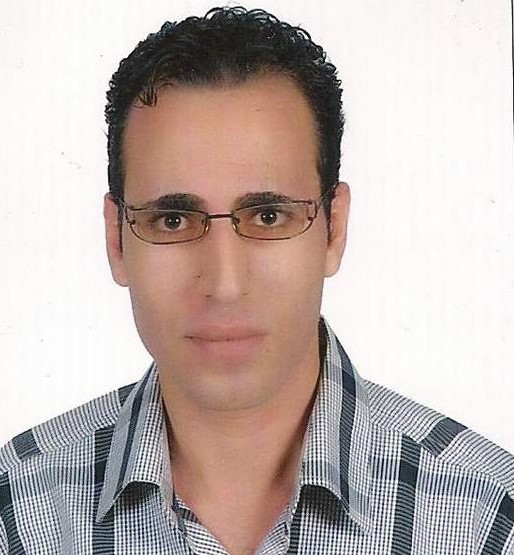
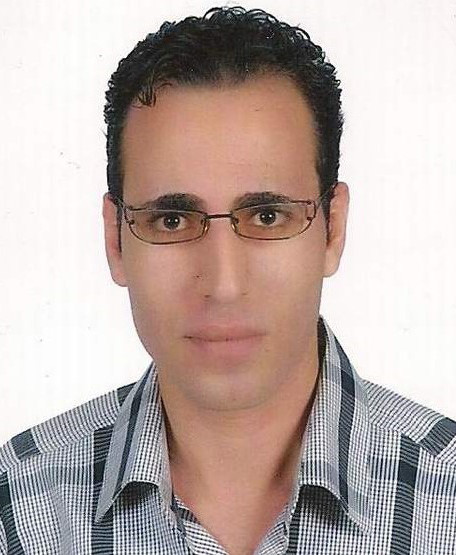
updated the body content,index.html,index.css,images/main.jpg

diff --git a/index.html b/index.html
@@ -3,7 +3,7 @@
   <head>
   <meta charset="UTF-8">
   <meta name="viewport" content="width=device-width, initial-scale=1">
-  <meta name="personal profile" content="information about younan yaquob life">
+  <meta name="personal profile" content="information about younan kamel yaquob life">
   <meta name="keywords" content="younan kamel yaquob">
   <meta name="author" content="younan kamel yaquob">
   <meta name="viewport" content="width=device-width, initial-scale=1.0">
@@ -20,67 +20,67 @@
      <header class="top">
       <div class="row">
         <ul class="main-nav">
-          <li><a href="#Who_I_am?">Who I am</a></li>   
-          <li><a href="#During_my_school">During my school</a></li>
-          <li><a href="#What_I_do">What I do</a></li>
-          <li><a href="#avatar_">Avatar</a></li>
           <li><a href="#contact_">Contact</a></li>
+          <li><a href="#pictures_">Pictures</a></li>
+          <li><a href="#work">Work</a></li>
+          <li><a href="#education">Education</a></li>
+          <li><a href="#about_me">About me</a></li>   
+
         </ul>
       </div>
      </header>
     <div class="center">
-      <h1> Hi, I'M Younan Yaquob</h1> 
+        <h1> Hi, I'm Younan Yaquob</h1> 
         <p><img class="main-picture" src="images/main.jpg" alt="my main picture" title="Younan Yaquob"
          width="450" height="500" /></p>
     </div>
    <div id="container">  
-     <h2 id="Who_I_am?">Who I am</h2>
-     <h3>I am called younan ( Jonah ), because I was born in Jonah`s celebration according to Egyptian Coptic calendar .
-      My family contained five members. I was the second member among my brothers. I grew up at a house which is full of love and sanctification. After some years I have met a nice, lovely girl. When I saw her, I decided to marry her. I got married at age of thirty. After that, I have got my two daughters who bring joy and happiness to our home. 
+     <h2 id="about_me">About me</h2>
+     <h3>I am called Younan ( Jonah ) because I was born in Jonah`s celebration according to the Egyptian Coptic calendar. My family contained five members. I was the second member of my brothers. I grew up in a house which is full of love and sanctification. After some years I have met a nice, lovely girl. When I saw her, I decided to marry her. I got married at age of thirty. After that, I have got my two daughters who bring joy and happiness to our home. 
      </h3><br />
-     <h2 id="During_my_school">During my school</h2>
-      <p>At school I had met new friends who were clever too. We were in competitions in studies and sports. I have studied hard during high school and I succeeded to attend a good university. I had studied languages both English and German. I studied hard and got high marks at my studies. </p>
+     <h2 id="education">Education</h2>
+      <p>At school, I had met new friends who were clever too. We were in competitions in studies and sports. I have studied hard during high school, and I succeeded to attend a good university. I had studied languages both English and German. I studied hard and got high marks in my studies.</p>
        <br />
-     <h2 id="What_I_do">What I do</h2>
+     <h2 id="work">Work</h2>
       <p>I tried to work in my college as a teacher, but there was no chance to work there for some reason. I have moved to another city to look for work, and I worked at a famous hotel as a receptionist. My work remained for some months then I worked as a tourist guide. After that, I opened my very first own shop which was offering jewelry to tourists. Then I got my second shop in which I sold papyrus.<span class="sentence">I had to read much about old ancient Egyptian history to explain any <a href="https://www.ancient.eu/Egyptian_Papyrus/" target="_blank"> Papyrus </a> picture. It is interesting to know ancient Egyptian history."</span> Life is interesting when you have a good family, and you achieve yourself.</p>
         <!-- End of the body content -->
-        <!-- start Avatar images -->
-        <h2 id="avatar_">Avatar</h2>
+        <!-- start images tour -->
+        <h2 id="pictures_">Pictures</h2>
         <p><a href="#top">Top</a></p>
      <div class="images">
        <div>
         <figure>
         <img src="images/1.gif" alt="jewelry shop" title="tourists"
          width="300" height="400" />
-         <figcaption>At My Jewelry Shop</figcaption>
+         <figcaption>At my jewelry shop</figcaption>
         </figure>
        </div>
        <div>
         <figure>
          <img src="images/2.jpg" alt="family" title="my sister and me"
          width="300" height="400" />
-         <figcaption>With My Sister And Her Family</figcaption>
+         <figcaption>With my sister and her family</figcaption>
         </figure>
        </div>
        <div>
         <figure>
           <img src="images/3.jpg" alt="jewelry shop" title="my brother and me"
            width="300" height="400" />
-          <figcaption>Selling Jewelry to Tourists </figcaption>
+          <figcaption>At work with my brother</figcaption>
         </figure>
        </div>
       <div>
        <figure>
         <img src="images/4.jpeg" alt="jewelry shop" title="tourists"
          width="300" height="400" />
-         <figcaption>During College</figcaption>
+         <figcaption>At college</figcaption>
        </figure>
       </div>
       <div>
        <figure>
         <img src="images/5.jpeg" alt="Papyrus shop" title="tourists"
          width="300" height="400" />
-        <figcaption>At Papyrus Shop</figcaption>
+        <figcaption>At Papyrus shop</figcaption>
        </figure>
       </div>
     </div>

diff --git a/index.css b/index.css
@@ -1,27 +1,31 @@
  
- *{
-   margin: 4px;
-   padding: 0px;
+ body{
+   margin: 0;
+   background-color: #D6EAF8;
  }  
  #container{
-   min-height: 100%;
+   margin-left: 10px;
+   margin-right: 10px;
  }
-
   ul 
    {
     list-style-type: row;
     margin: 0px;
     padding: 0px;
     }
+    header{
+      background-color: lightskyblue;
+      padding: 12px;
+      width: 100%;
+      border-bottom: 10px solid #c0c0c0;
+      border-top: 10px solid #c0c0c0;
+    }
     
   .main-nav li
     {
-      float: right;
-      list-style: none;
-      margin-top: auto;
-    }
-  .main-nav li
-    {
+       float: right;
+       list-style: none;
+       margin-top: auto;
        color: white;
        text-decoration: none;
        padding: 10px ;
@@ -31,27 +35,26 @@
     }
    .center 
     {
-      display: block;
       margin-left: auto;
       margin-right: auto;
-      width: 50%;
-      padding-top: 70px;
+      width: 35%;
+      padding-top: 120px;
+     
         }
 
-        html{
-          background-color: #D6EAF8;
-        }
+       
     .main-picture{
       border-radius: 35%;
     }
   h1
     {
-      color: #0A043C;
-      font-family: 'Quattrocento', Georgia, 'Times New Roman', Times, sans-serif;
-      font-weight: 700;
+       color: #0A043C;
+       font-family: 'Quattrocento', Georgia, 'Times New Roman', Times, sans-serif;
+       font-weight: 700;
+       font-size: 2.2em;
        margin: 0;
        text-align: left;
-        text-indent: 90px;
+       text-indent: 90px;
     }  
   
   h2 
@@ -62,8 +65,12 @@
       font-size: 1.21em;
       word-spacing: .24em;
       margin: 0;
-      text-align: left;
+      text-align: center;
       padding-top: 5px;  
+      background-color:#c0c0c0;
+   }
+   h2:hover{
+     color: white;
    }
 
  h3
@@ -75,7 +82,7 @@
    margin: 0;
    text-align: left;
    padding-top: 5px;   
-  text-indent: 30px;
+   text-indent: 30px;
 }
     
     p {
@@ -94,14 +101,12 @@
       {
         font-family:'Quattrocento',Georgia,'Times New Roman',serif;
         text-align: center;
-      }
-       a{
         font-size: 1.25em;
         font-weight: bold;
          color:#000080	;
          text-decoration: none;
       }
-       a:hover 
+      a:hover 
        {
         background-color:#f0f8ff;
       }
@@ -127,14 +132,21 @@
            font-size: .75em;
            font-weight: 700;
       }
+      figcaption{
+        font-family: 'Quattrocento', Georgia, 'Times New Roman', Times, sans-serif;
+        font-weight: 400;
+        text-align: center;
+        color: #0A043C;
+        font-size: 1.50em;
+
+      }
       
     #footer 
     {
       background-color: lightskyblue;
-      position: relative;
-      height: 50px;
-      margin-top: -100px;
-      clear: both
+      padding: 12px;
+      border-top: 10px solid #c0c0c0		;
+      border-bottom: 10px solid #c0c0c0		;
     }
    .top {
       float: right;
